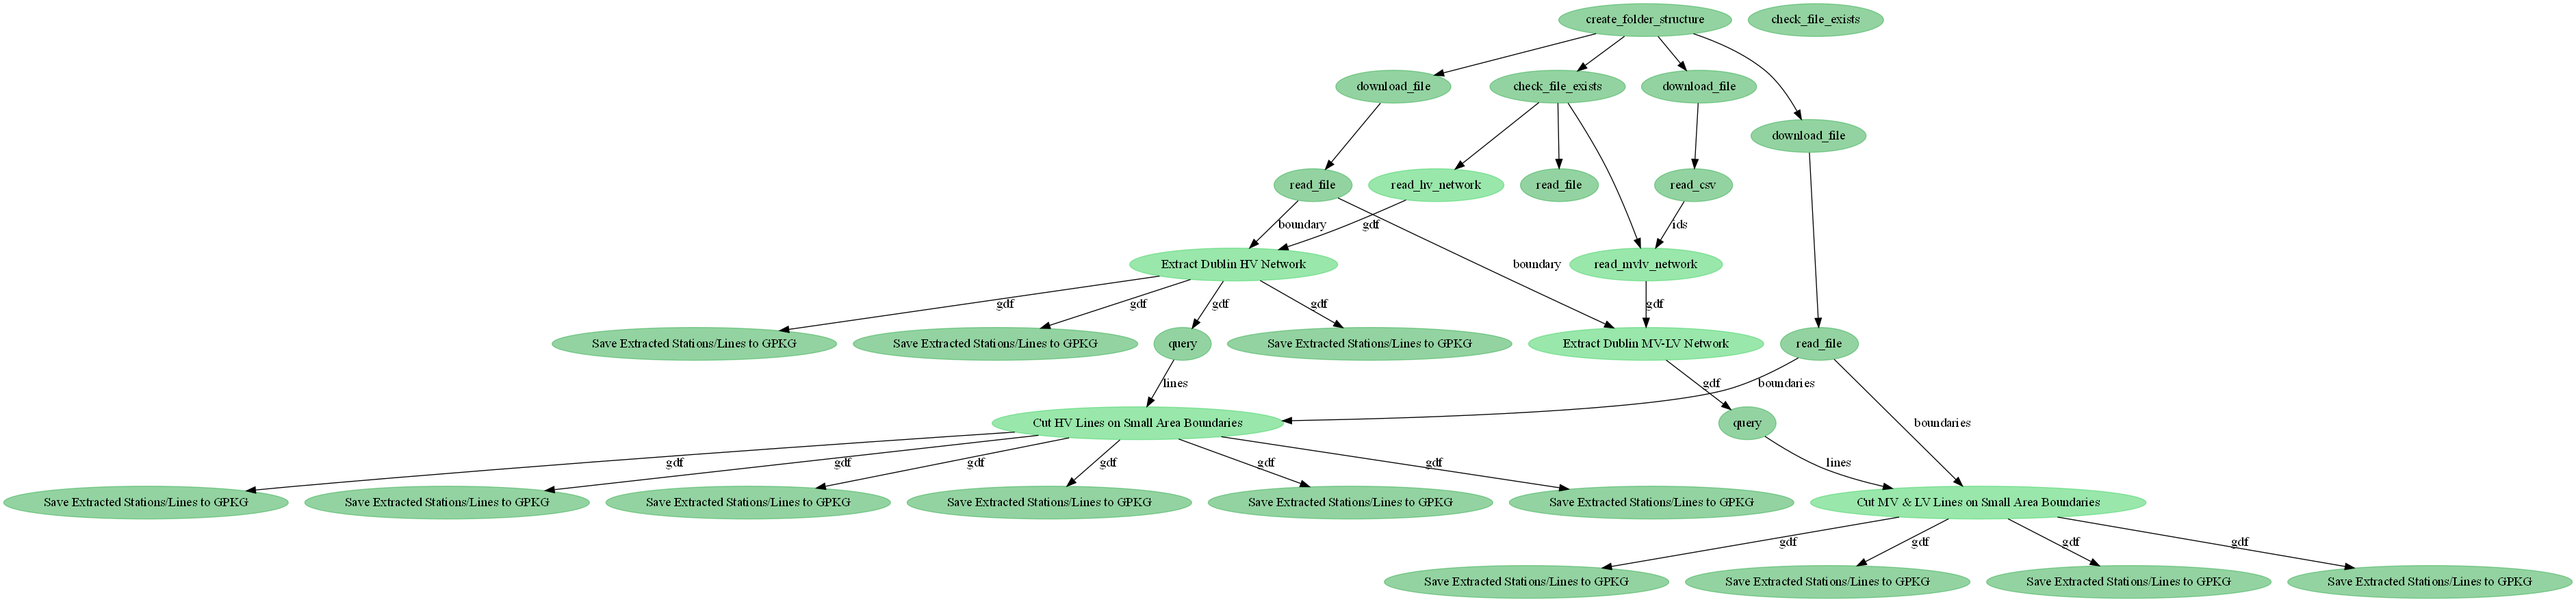
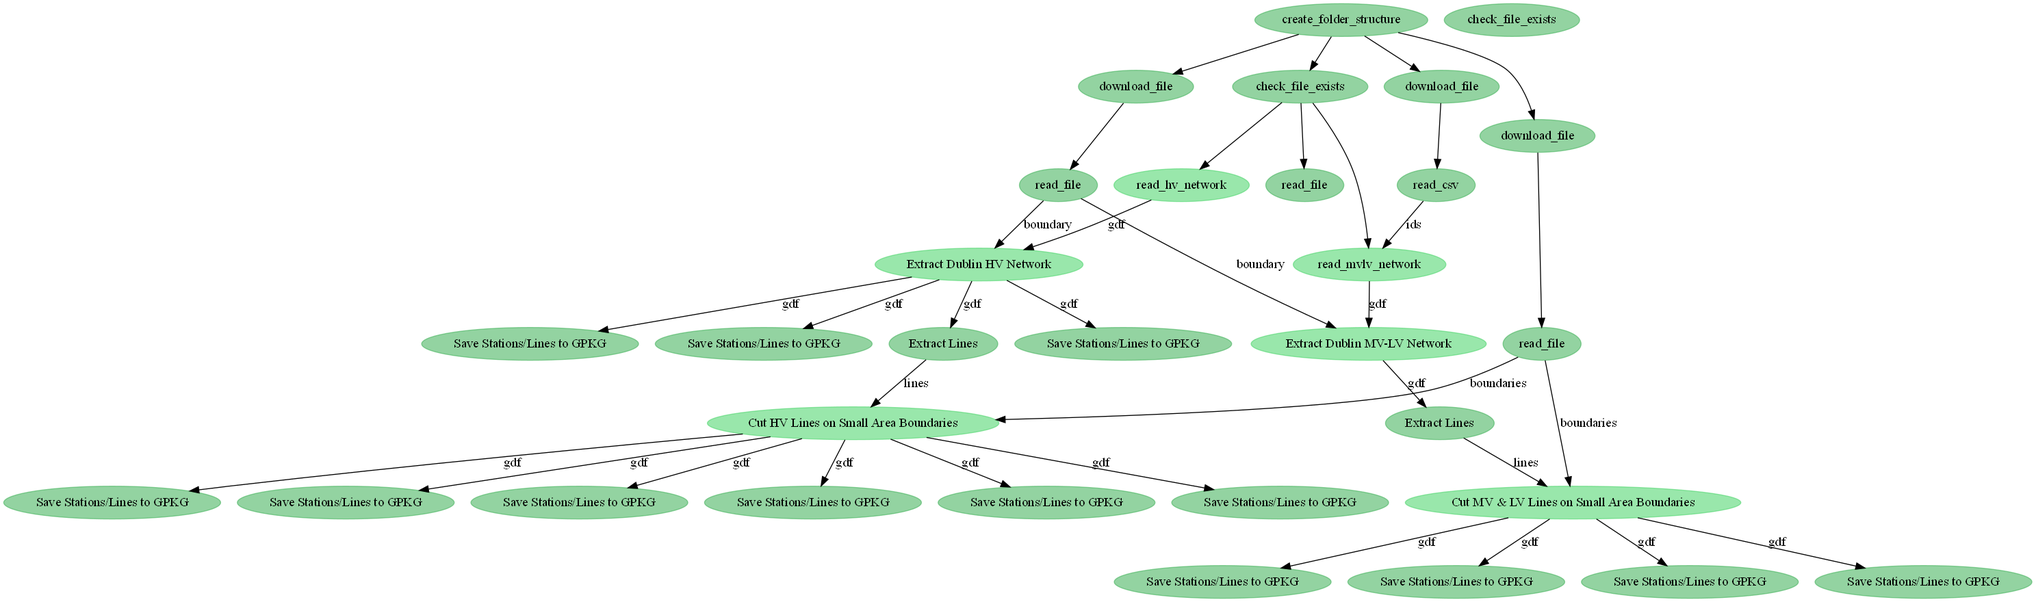
Rename query to extract lines

diff --git a/infrastructure-line-lengths/tasks.py b/infrastructure-line-lengths/tasks.py
@@ -69,7 +69,7 @@ extract_dublin_mvlv_network = prefect.task(
     checkpoint=True,
     name="Extract Dublin MV-LV Network",
 )
-query = prefect.task(functions.query)
+extract_lines = prefect.task(functions.query, name="Extract Lines")
 cut_hv_lines_on_boundaries = prefect.task(
     functions.cut_lines_on_boundaries,
     target="dublin_hv_lines_cut.parquet",
@@ -86,5 +86,5 @@ cut_mvlv_lines_on_boundaries = prefect.task(
 )
 
 save_subset_to_gpkg = prefect.task(
-    functions.save_subset_to_gpkg, name="Save Extracted Stations/Lines to GPKG"
+    functions.save_subset_to_gpkg, name="Save Stations/Lines to GPKG"
 )

diff --git a/infrastructure-line-lengths/pipeline.py b/infrastructure-line-lengths/pipeline.py
@@ -125,10 +125,10 @@ with Flow("Extract infrastructure small area line lengths") as flow:
         filepath=FILEPATHS["220kv_stations"],
     )
 
-    mvlv_lines = tasks.query(
+    mvlv_lines = tasks.extract_lines(
         dublin_mvlv_network, "Level == 1 or Level == 2 or Level == 10 or Level == 11"
     )
-    hv_lines = tasks.query(
+    hv_lines = tasks.extract_lines(
         dublin_hv_network,
         "Level == 21 or Level == 24 or Level == 31 or Level == 34 or Level == 41 or Level == 44",
     )
